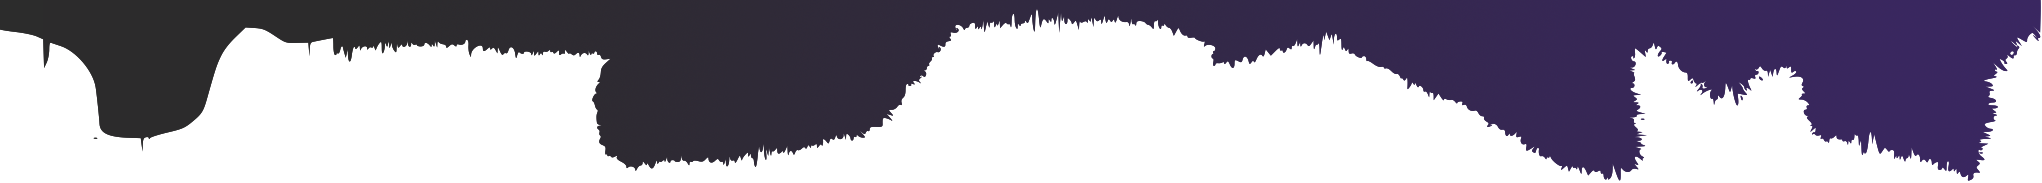
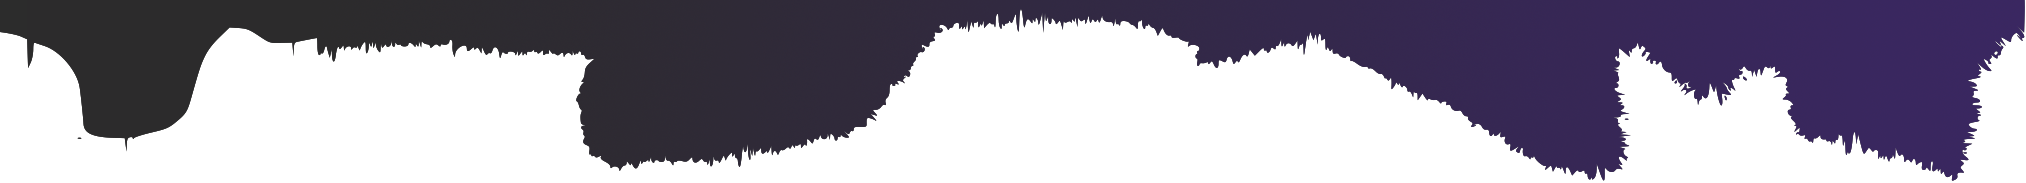
fixed gradient bg

diff --git a/src/scss/blocks/_skills.scss b/src/scss/blocks/_skills.scss
@@ -3,8 +3,8 @@ $bg: '../../assets/bg.png';
 .section-skills{
     width: 100%;
     background-image: url($bg);
-    background-size: contain;
     background-position: center;
+    background-size: cover;
     color: $white;
     font-family: $font-family;
 

diff --git a/src/scss/blocks/_contact.scss b/src/scss/blocks/_contact.scss
@@ -3,7 +3,6 @@ $bg: '../../assets/bg.png';
 .contact{
     min-height: 30vh;
     background-image: url($bg);
-    background-position: center;
     background-size: cover;
     padding-bottom: 50px;
 
